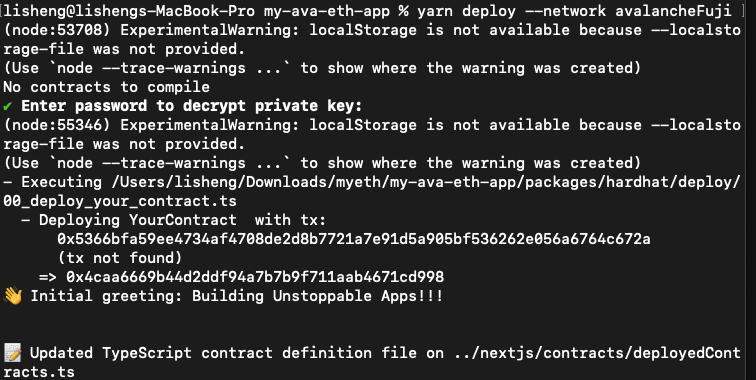
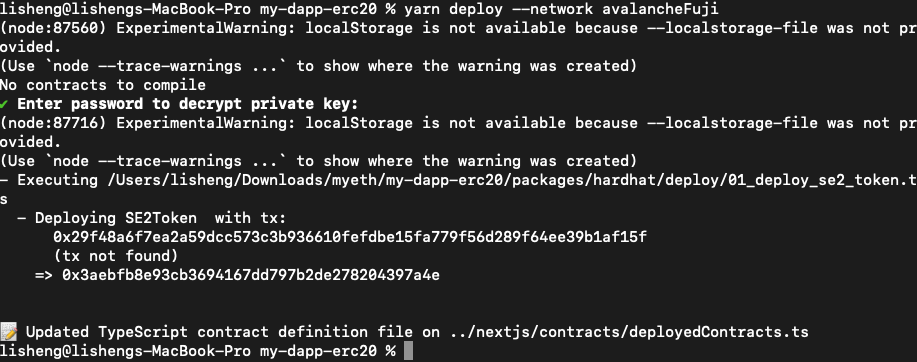
Add tast2

Changed region(s): [[0.0, 0.0, 1.0, 0.8204], [0.0, 0.8812, 1.0, 1.0]]

diff --git a/learn/vlbos/task2vlbos.md b/learn/vlbos/task2vlbos.md
@@ -25,8 +25,8 @@ https://build.avax.network/console/primary-network/faucet
 ![alt text](task2vlbos_mydeployedfront.png)
 
 链上合约的地址
-0x4caA6669B44d2dDf94A7B7B9F711aab4671Cd998
+0x3aEBfb8E93cb3694167Dd797b2de278204397A4E
 
-(部署交易hash)[https://explorer-test.avax.network/c-chain/tx/0x5366bfa59ee4734af4708de2d8b7721a7e91d5a905bf536262e056a6764c672a]
+(部署交易hash)[https://explorer-test.avax.network/c-chain/tx/0x29f48a6f7ea2a59dcc573c3b936610fefdbe15fa779f56d289f64ee39b1af15f]
 
 
